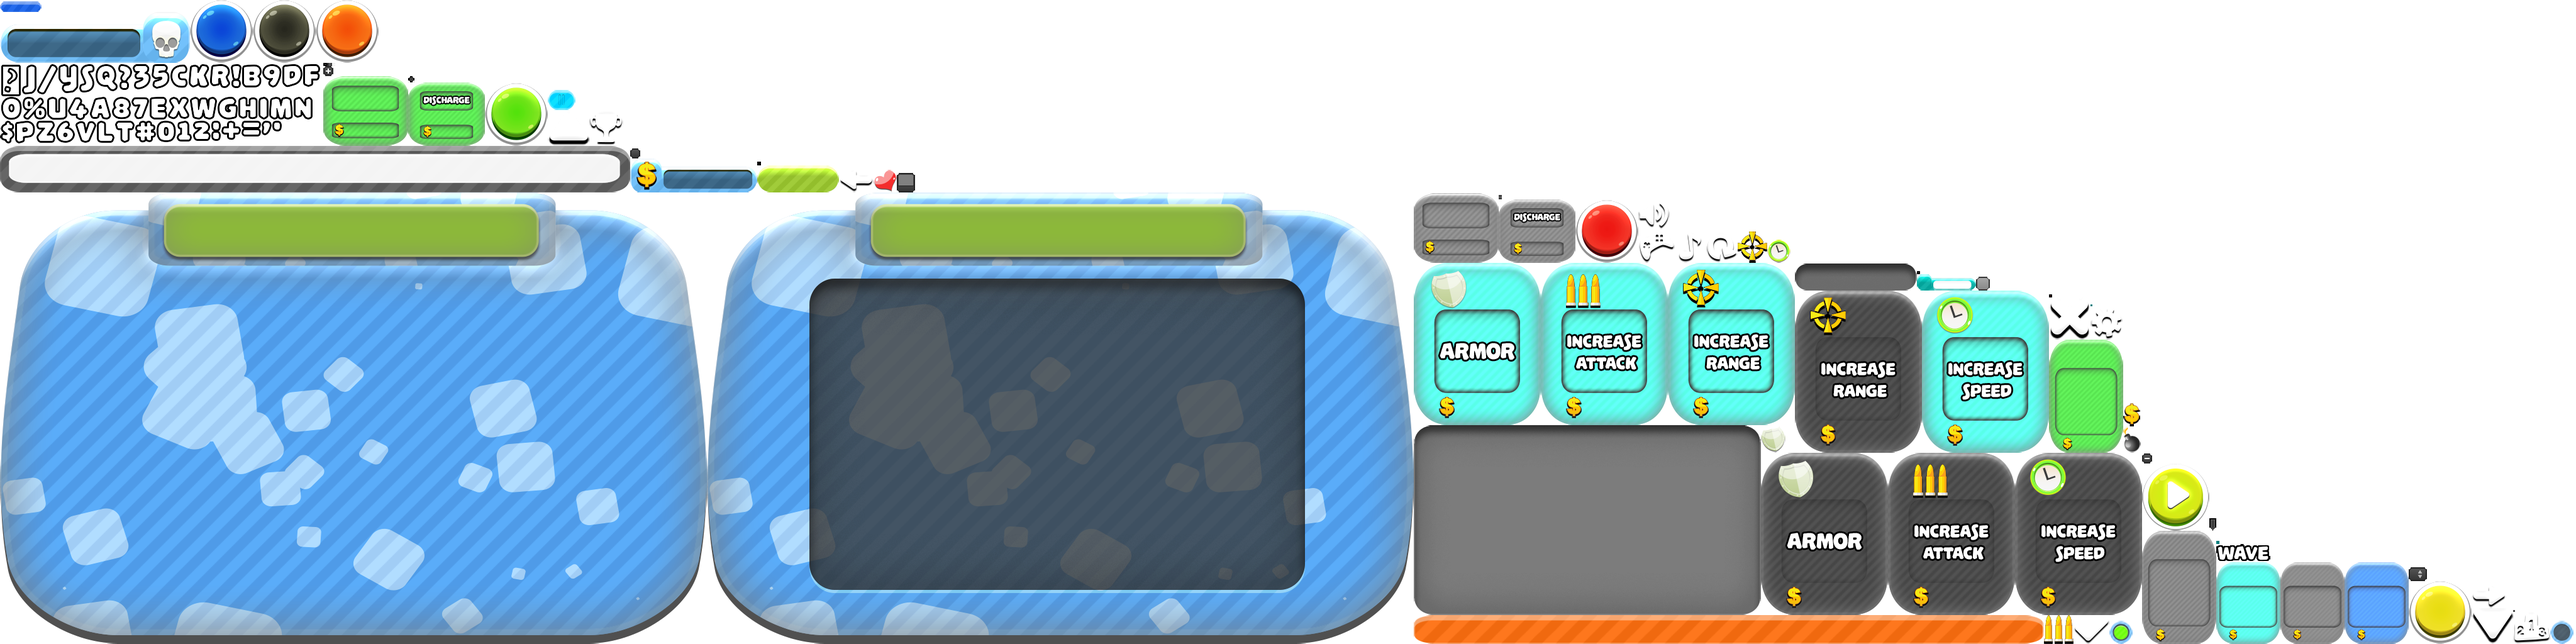
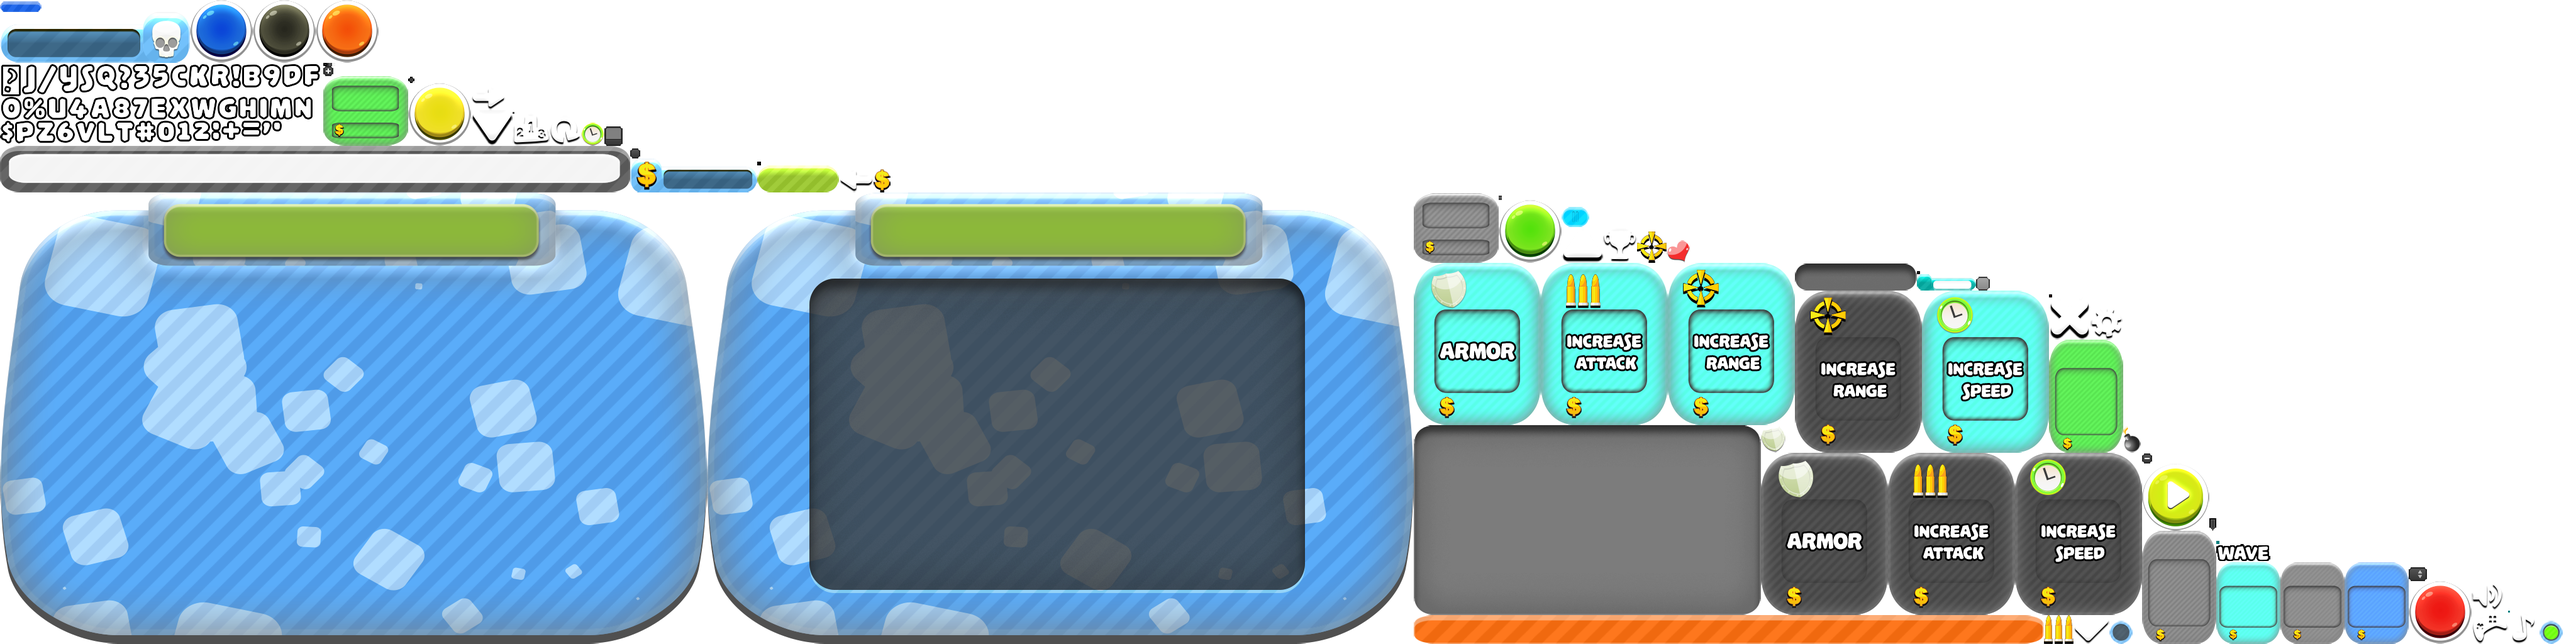
FHD - 56 - Added discharge button

diff --git a/core/src/com/foxholedefense/game/ui/view/InspectView.java b/core/src/com/foxholedefense/game/ui/view/InspectView.java
@@ -18,6 +18,7 @@ import com.badlogic.gdx.utils.Scaling;
 import com.foxholedefense.game.model.actor.combat.tower.Tower;
 import com.foxholedefense.game.ui.presenter.InspectPresenter;
 import com.foxholedefense.game.ui.view.interfaces.IInspectView;
+import com.foxholedefense.game.ui.view.widgets.DischargeButton;
 import com.foxholedefense.game.ui.view.widgets.UpgradeButton;
 import com.foxholedefense.util.Resources;
 
@@ -30,7 +31,7 @@ import com.foxholedefense.util.Resources;
 public class InspectView extends Group implements InputProcessor, IInspectView {
 	private InspectPresenter presenter;
 	private ImageButton btnChangeTarget, btnCancel;
-	private TextButton btnDischarge;
+	private DischargeButton btnDischarge;
 	private UpgradeButton btnArmor, btnSpeed, btnRange, btnAttack;
 	private Group grpTargetPriority;
 	private Label lblTargetPriority, lblTitle, lblMoney, lblKills;
@@ -137,40 +138,21 @@ public class InspectView extends Group implements InputProcessor, IInspectView {
 		setTargetPriorityListener();
 
 
-		TextButtonStyle dischargeStyle = new TextButtonStyle(skin.get("discharge", TextButtonStyle.class));
-		dischargeStyle.pressedOffsetY = -27;
-		dischargeStyle.unpressedOffsetY = -27;
-		dischargeStyle.checkedOffsetY = -27;
-		dischargeStyle.pressedOffsetX = 40;
-		dischargeStyle.unpressedOffsetX = 40;
-		dischargeStyle.checkedOffsetX = 40;
-		btnDischarge = new TextButton("9999",dischargeStyle);
-		btnDischarge.getLabel().setAlignment(Align.left);
-		btnDischarge.getLabel().setFontScale(0.45f);
+//		TextButtonStyle dischargeStyle = new TextButtonStyle(skin.get("discharge", TextButtonStyle.class));
+//		dischargeStyle.pressedOffsetY = -27;
+//		dischargeStyle.unpressedOffsetY = -27;
+//		dischargeStyle.checkedOffsetY = -27;
+//		dischargeStyle.pressedOffsetX = 40;
+//		dischargeStyle.unpressedOffsetX = 40;
+//		dischargeStyle.checkedOffsetX = 40;
+//		btnDischarge = new TextButton("9999",dischargeStyle);
+//		btnDischarge.getLabel().setAlignment(Align.left);
+//		btnDischarge.getLabel().setFontScale(0.45f);
+		btnDischarge = new DischargeButton(skin, 0);
 		container.add(btnDischarge).align(Align.center).size(120,99).padTop(10);
 		setDischargeListener();
 	}
 
-	/**
-	 * Create the upgrade controls that are grouped together with Groups
-	 */
-
-	private TextButton createUpgradeButton(String cost,Skin skin,String styleName) {	
-		TextButtonStyle upgradeStyle = new TextButtonStyle(skin.get(styleName, TextButtonStyle.class));
-		//upgradeStyle.font = Resources.getFont("default-font-46");
-		upgradeStyle.pressedOffsetY = -49;
-		upgradeStyle.unpressedOffsetY = -49;
-		upgradeStyle.checkedOffsetY = -49;
-		upgradeStyle.pressedOffsetX = 35;
-		upgradeStyle.unpressedOffsetX = 35;
-		upgradeStyle.checkedOffsetX = 35;
-		
-		TextButton upgradeButton = new TextButton(cost, upgradeStyle);
-		upgradeButton.getLabel().setAlignment(Align.left);
-		upgradeButton.getLabel().setFontScale(0.45f);
-		return upgradeButton;
-		
-	}
 
 	@Override
 	public void standByState() {
@@ -184,7 +166,7 @@ public class InspectView extends Group implements InputProcessor, IInspectView {
 	
 	@Override
 	public void dischargeEnabled(boolean enabled) {
-		btnDischarge.setDisabled(!enabled);
+		btnDischarge.button.setDisabled(!enabled);
 		if (enabled){
 			btnDischarge.setTouchable(Touchable.enabled);
 		} else {
@@ -204,7 +186,7 @@ public class InspectView extends Group implements InputProcessor, IInspectView {
 		btnSpeed.updateCost(selectedTower.getSpeedIncreaseCost());
 		btnRange.updateCost(selectedTower.getRangeIncreaseCost());
 		btnAttack.updateCost(selectedTower.getAttackIncreaseCost());
-		btnDischarge.getLabel().setText(String.valueOf(selectedTower.getSellCost()));
+		btnDischarge.updateCost(selectedTower.getSellCost());
 		lblTargetPriority.setText(selectedTower.getAI().name().replace('_', ' '));
 		updateUpgradeControl(btnArmor, selectedTower.hasArmor(), selectedTower.getArmorCost());
 		updateUpgradeControl(btnSpeed, selectedTower.hasIncreasedSpeed(), selectedTower.getSpeedIncreaseCost());

diff --git a/core/src/com/foxholedefense/game/ui/view/widgets/DischargeButton.java b/core/src/com/foxholedefense/game/ui/view/widgets/DischargeButton.java
@@ -1,0 +1,41 @@
+package com.foxholedefense.game.ui.view.widgets;
+
+import com.badlogic.gdx.scenes.scene2d.Group;
+import com.badlogic.gdx.scenes.scene2d.ui.ImageButton;
+import com.badlogic.gdx.scenes.scene2d.ui.Label;
+import com.badlogic.gdx.scenes.scene2d.ui.Skin;
+import com.badlogic.gdx.utils.Align;
+import com.foxholedefense.util.ActorUtil;
+
+/**
+ * Created by Eric on 11/13/2016.
+ */
+
+public class DischargeButton extends Group {
+    public ImageButton button;
+    private Label lblCost;
+    public DischargeButton(Skin skin, int cost){
+        this.setTransform(false);
+        this.button = new ImageButton(skin, "discharge");
+        addActor(button);
+
+        lblCost = new Label(String.valueOf(cost), skin);
+        lblCost.setFontScale(0.45f);
+        lblCost.setAlignment(Align.bottomLeft);
+        lblCost.pack();
+        lblCost.setPosition(38,10);
+        addActor(lblCost);
+
+        Label lblTitle = new Label("DISCHARGE", skin);
+        lblTitle.setFontScale(0.4f);
+        lblTitle.setAlignment(Align.center);
+        lblTitle.pack();
+        float lblTitleX = ActorUtil.calcXBotLeftFromCenter(button.getWidth() / 2, lblTitle.getWidth());
+        lblTitle.setPosition(lblTitleX, 62);
+        addActor(lblTitle);
+    }
+
+    public void updateCost(int cost){
+        lblCost.setText(String.valueOf(cost));
+    }
+}
